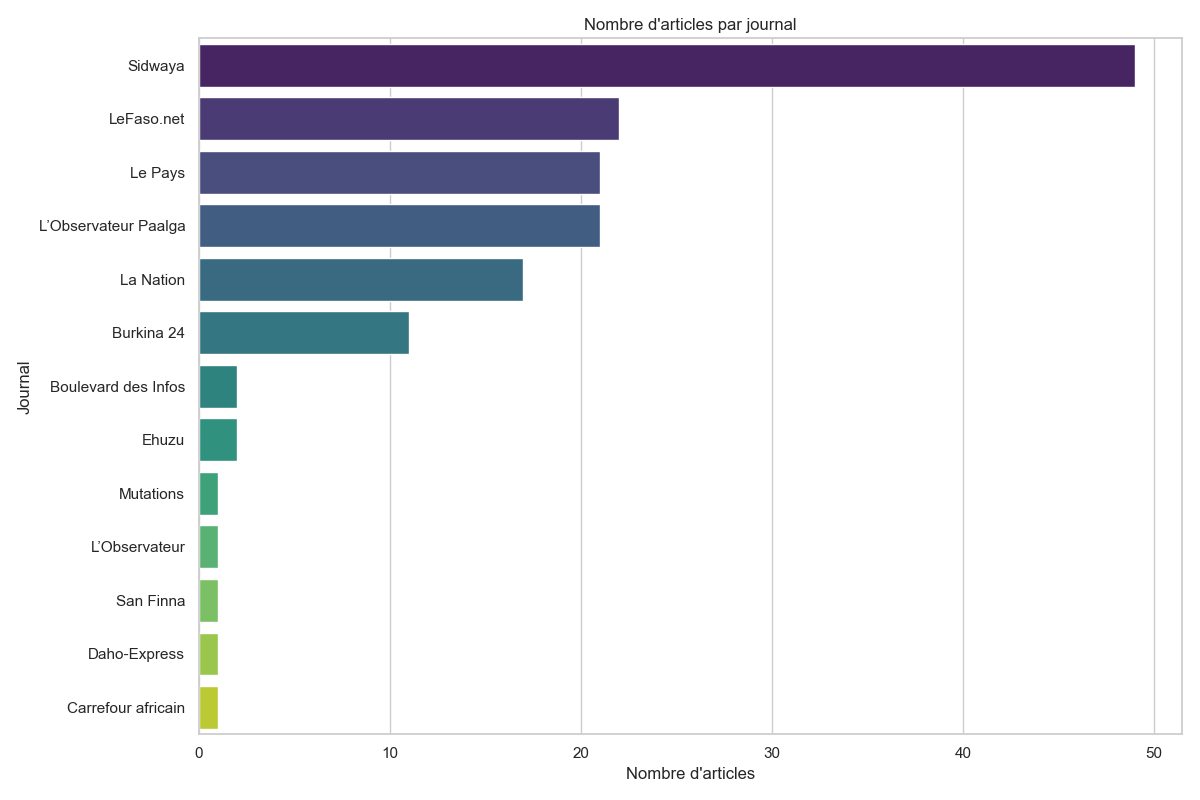
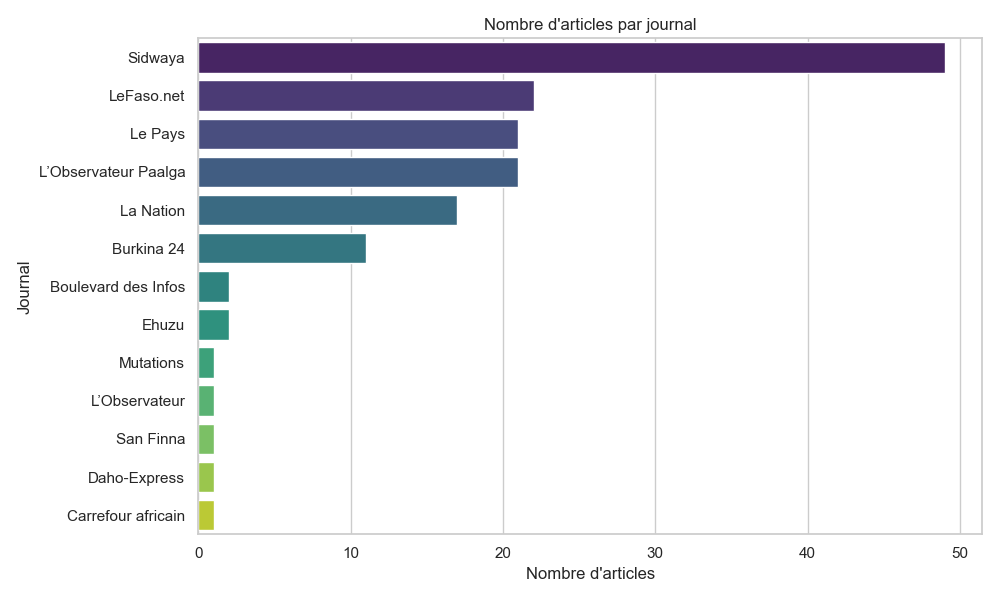
Ajustement taille visualisation

Changed region(s): [[0.0, 0.0, 0.992, 0.99], [0.465, 0.93, 0.496, 0.96], [0.31, 0.93, 0.341, 0.96]]

diff --git a/1. analyse_préliminaire.py b/1. analyse_préliminaire.py
@@ -39,7 +39,7 @@ plt.savefig('articles_par_annee.png')
 plt.show()
 
 # Visualisation 2: Répartition des articles par journal
-plt.figure(figsize=(12, 8))
+plt.figure(figsize=(10, 6))
 publisher_counts = df['Publisher'].value_counts().reset_index()
 publisher_counts.columns = ['Publisher', 'Counts']
 sns.barplot(x='Counts', y='Publisher', data=publisher_counts, palette='viridis', order=publisher_counts['Publisher'], hue='Publisher', legend=False)
@@ -52,7 +52,7 @@ plt.savefig('articles_par_journal.png')
 plt.show()
 
 # Visualisation 3: Distribution des articles par pays
-plt.figure(figsize=(12, 8))
+plt.figure(figsize=(10, 6))
 country_counts = df['Pays'].value_counts().reset_index()
 country_counts.columns = ['Pays', 'Nombre d\'articles']
 sns.barplot(x='Nombre d\'articles', y='Pays', data=country_counts, palette='coolwarm', order=country_counts['Pays'], hue='Pays', legend=False)
@@ -65,7 +65,7 @@ plt.savefig('articles_par_pays.png')
 plt.show()
 
 # Visualisation 4: Nombre total de mots par pays
-plt.figure(figsize=(12, 8))
+plt.figure(figsize=(10, 6))
 df['Word_Count'] = df['Content'].apply(lambda x: len(str(x).split()))
 words_per_country = df.groupby('Pays')['Word_Count'].sum().reset_index()
 words_per_country.columns = ['Pays', 'Nombre total de mots']
